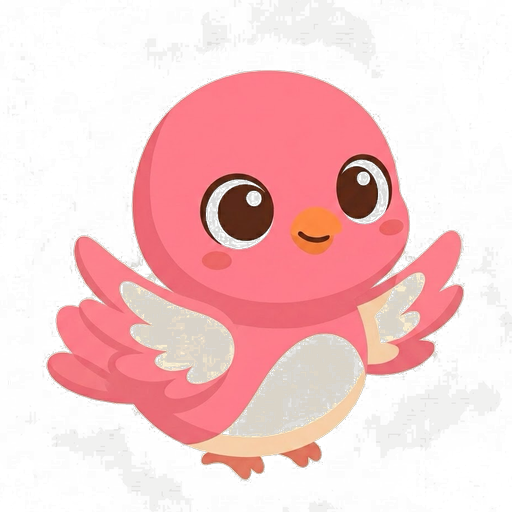
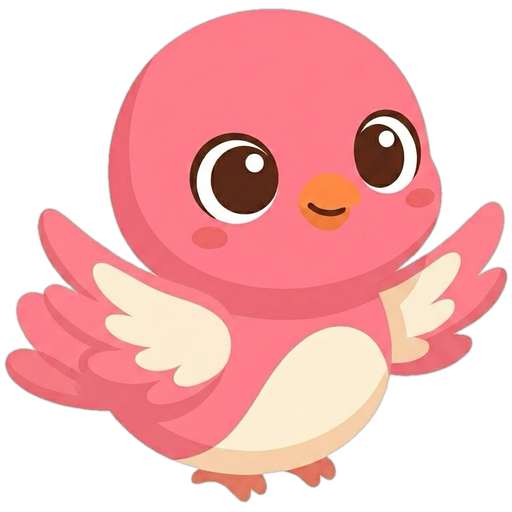
fix(art): use flood-fill keying so sprites have no cream halos
The chroma-key approach (any cream-ish pixel → transparent) left
visible faint cream rectangles around several animals when composited
over the green meadow — most obvious on the cat and dog, where the
sprite's bounding box revealed itself against the watercolor scene.

Switched background_to_alpha to a flood-fill from all four corners
using Pillow's ImageDraw.floodfill with a generous threshold. Only the
*connected* background region becomes transparent; cream pixels inside
the character (sheep wool, duck belly, cat chest bib, dog paw pads,
cow body) stay opaque because they're not reachable from corners.
Added a small Gaussian feather on the alpha channel for soft edges.

Re-rendered all 7 zoo sprite assets and the matching goldens.

diff --git a/scripts/optimize_art.py b/scripts/optimize_art.py
@@ -28,7 +28,7 @@ import sys
 from pathlib import Path
 
 try:
-    from PIL import Image  # type: ignore
+    from PIL import Image, ImageDraw, ImageFilter  # type: ignore
 except ImportError:
     sys.stderr.write(
         "Pillow is not installed. Run:\n"
@@ -56,9 +56,18 @@ ASSETS: list[tuple[str, str, str]] = [
 
 SPRITE_SIZE = 512
 SCENE_WIDTH = 2048
-CREAM = (255, 245, 230)  # #fff5e6 (matches DesignTokens.cream)
-CREAM_HARD_DIST = 18     # below this color distance → fully transparent
-CREAM_SOFT_DIST = 36     # between hard and soft → partial alpha for feather
+# Floodfill threshold — distance between a candidate pixel and its
+# flood-fill seed (corner pixel). Generous enough to bridge subtle
+# watercolor-texture variations in the cream background.
+FLOOD_THRESH = 60
+
+# Magenta marker — placed by floodfill into background regions so we can
+# distinguish them. The character art never contains pure magenta.
+MARKER = (255, 0, 255)
+
+# Edge feather radius in pixels — softens the alpha boundary so character
+# silhouettes don't look hard-edged against the scene.
+ALPHA_FEATHER = 1.2
 
 
 def crop_border(img: Image.Image, percent: float) -> Image.Image:
@@ -67,24 +76,47 @@ def crop_border(img: Image.Image, percent: float) -> Image.Image:
     return img.crop((dx, dy, w - dx, h - dy))
 
 
-def cream_to_alpha(img: Image.Image) -> Image.Image:
-    """Replace cream-coloured pixels with transparency using a soft feather."""
+def background_to_alpha(img: Image.Image) -> Image.Image:
+    """Remove the background by flood-filling from all four corners.
+
+    The chroma-key approach (any cream-ish pixel → transparent) leaks at
+    sprite-tile edges because of subtle compression and watercolor
+    texture. Worse, it eats into character interiors that happen to be
+    cream-coloured (sheep wool, duck belly).
+
+    Flood-fill solves both: we seed from corners (definitely background)
+    and only mark the *connected* cream region as transparent. Anything
+    cream inside the character is unreachable and stays opaque.
+    """
     img = img.convert("RGBA")
-    px = img.load()
-    if px is None:
-        return img
     w, h = img.size
-    cr, cg, cb = CREAM
+
+    # Work on an RGB copy so floodfill can splash a marker colour without
+    # interfering with the alpha channel.
+    marker_img = img.convert("RGB").copy()
+    for seed in ((0, 0), (w - 1, 0), (0, h - 1), (w - 1, h - 1)):
+        ImageDraw.floodfill(
+            marker_img,
+            xy=seed,
+            value=MARKER,
+            thresh=FLOOD_THRESH,
+        )
+
+    marker_px = marker_img.load()
+    img_px = img.load()
+    if marker_px is None or img_px is None:
+        return img
+
     for y in range(h):
         for x in range(w):
-            r, g, b, a = px[x, y]
-            d = abs(r - cr) + abs(g - cg) + abs(b - cb)
-            if d < CREAM_HARD_DIST:
-                px[x, y] = (r, g, b, 0)
-            elif d < CREAM_SOFT_DIST:
-                # Linear feather between hard and soft thresholds.
-                t = (d - CREAM_HARD_DIST) / (CREAM_SOFT_DIST - CREAM_HARD_DIST)
-                px[x, y] = (r, g, b, int(a * t))
+            if marker_px[x, y] == MARKER:
+                r, g, b, _ = img_px[x, y]
+                img_px[x, y] = (r, g, b, 0)
+
+    # Soft-feather the alpha boundary so character edges don't read as
+    # hard-cut. We extract the alpha plane, blur it, paste it back.
+    a = img.getchannel("A").filter(ImageFilter.GaussianBlur(ALPHA_FEATHER))
+    img.putalpha(a)
     return img
 
 
@@ -114,7 +146,7 @@ def fit_into_square(img: Image.Image, size: int) -> Image.Image:
 def process_sprite(src: Path, dst: Path) -> None:
     img = Image.open(src)
     img = crop_border(img, 0.05)
-    img = cream_to_alpha(img)
+    img = background_to_alpha(img)
     img = tight_crop(img)
     img = fit_into_square(img, SPRITE_SIZE)
     dst.parent.mkdir(parents=True, exist_ok=True)
